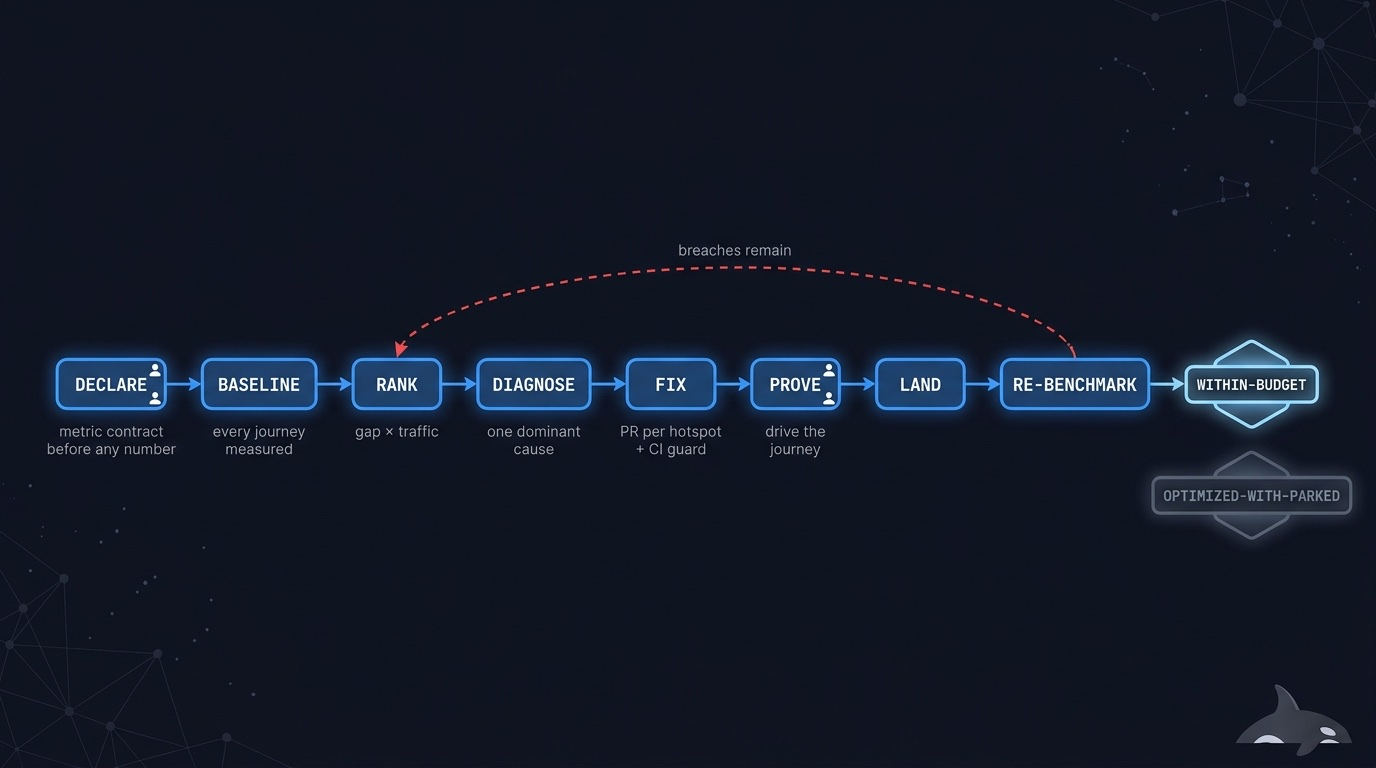
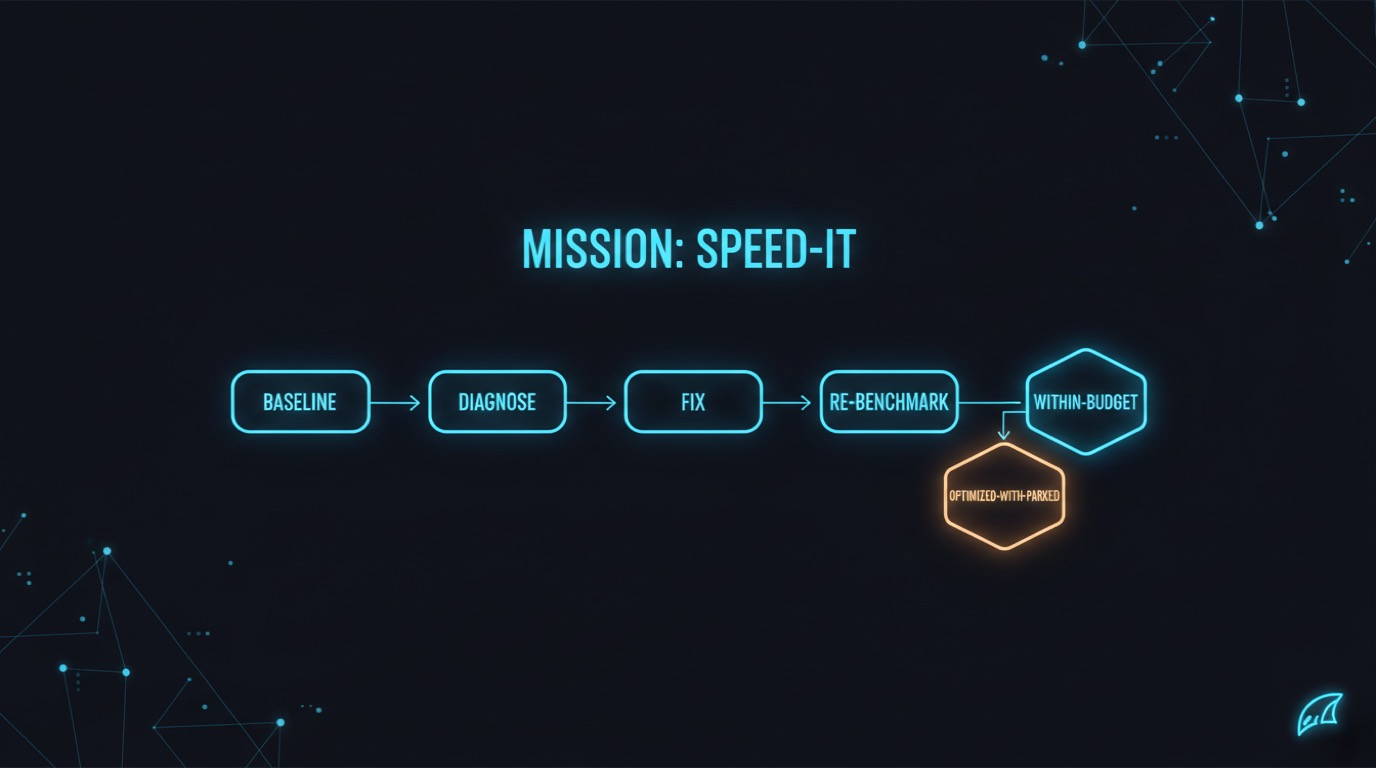
docs: regenerate the mission diagram set — 6 new mission images, refreshed speed-it, accurate mission map
- Add state-machine diagrams for access-it, attest-it, field-test-it,
  floor-it, pin-it, reshape-it and embed them in their guides
- Regenerate speed-it.jpg: the previous render carried garbled labels
- Regenerate mission-map.jpg: the stale map routed only 11 missions and
  its labels were AI-garbled; the new render mirrors the README mermaid
  routing tree exactly (all 17 missions, exact labels)
- Update both mission-map alt texts to name every route

diff --git a/docs/missions/floor-it.md b/docs/missions/floor-it.md
@@ -10,6 +10,10 @@
 
 **Skill:** [`skills/floor-it/SKILL.md`](../../skills/floor-it/SKILL.md) · **Layer:** mission (discoverable) · **Fix authority:** yes — `PROFILE=rw` wire workers
 
+<p align="center">
+  <img src="../../assets/diagrams/missions/floor-it.jpg" alt="State machine: DETECT measured current values, FREEZE a numbered CONSTRAINTS bar, WIRE one tool per dimension, PROVE-FIRES with an injected violation going RED, ENFORCE in CI, ending FLOORED or FLOORED-WITH-PARKED" width="820">
+</p>
+
 ---
 
 ## What it does
@@ -23,7 +27,9 @@ a violation on a throwaway branch — a deleted test file, a fixture lockfile a 
 installing, an injected sleep, a stripped alt text, a forbidden import — and the harness goes RED;
 revert, GREEN — a harness that stays GREEN is reverted and never lands. After CI enforcement lands, a canary PR per gate must turn CI red and is closed
 unmerged. Finally a **guard** — a checked-in validator plus a CI job — fails any diff that lowers a
-threshold, adds a suppression, or skips a test without a waiver label.
+threshold in `CONSTRAINTS.md` or touches a per-dimension tool-config surface listed in the frozen
+table (suppressions, skipped tests, exclusions) without a waiver (a recorded DECISIONS line per
+gate-classification).
 
 The unit of work is **one constraint dimension**. The defining property: the bar is written,
 numbered, and tool-enforced — prose standards are explicitly not the product.

diff --git a/docs/missions/field-test-it.md b/docs/missions/field-test-it.md
@@ -9,6 +9,10 @@
 
 **Skill:** [`skills/field-test-it/SKILL.md`](../../skills/field-test-it/SKILL.md) · **Layer:** mission (discoverable) · **Fix authority:** yes — `PROFILE=rw` fix workers
 
+<p align="center">
+  <img src="../../assets/diagrams/missions/field-test-it.jpg" alt="State machine: PAIR a device session, BASELINE, REPRODUCE with artifacts captured, FIX, RE-VERIFY on-device at the head SHA, ending FIELD-PROVEN or FIELD-PROVEN-WITH-PARKED" width="820">
+</p>
+
 ---
 
 ## What it does
@@ -84,7 +88,9 @@ on-device re-verify GREEN at `head_sha` + revert-to-red negative control, ledger
 capability tier — or a PARK naming the exact device and step it waits on. The before/after
 baselines are recorded; the verifier replays the recorded artifacts at the merged SHA (the
 archived repro re-driven expecting GREEN, plus a spot-check of the revert-RED receipt) — it never
-re-applies an already-landed fix. A green desktop run is never accepted as device evidence; a
+re-applies an already-landed fix — and, on a ≥10% sample per the mutation-unit floor, a fresh
+worker reverts the fix on a throwaway branch and re-drives the on-device flow expecting RED
+(landed BASE is never modified). A green desktop run is never accepted as device evidence; a
 one-time repro is marked flaky and re-driven, not closed.
 
 ## Composes

diff --git a/docs/missions/README.md b/docs/missions/README.md
@@ -6,7 +6,7 @@ built to prevent. The agent-facing contracts live in [`skills/`](../../skills/);
 for the human deciding what to run and what to expect.
 
 <p align="center">
-  <img src="../../assets/diagrams/mission-map.jpg" alt="Decision map: a goal routes to map-it then ship-it; known problems route to clean-sweep, oss-contribute, harden-it, speed-it, modernize-it, prove-it, or deflake-it; a question routes to review-it or root-cause" width="820">
+  <img src="../../assets/diagrams/mission-map.jpg" alt="Decision map: a goal to build routes to map-it then ship-it; known problems route to clean-sweep, oss-contribute, harden-it, speed-it, modernize-it, prove-it, deflake-it, floor-it, reshape-it, attest-it, access-it, or field-test-it; a question routes to review-it or root-cause; drifted tooling routes to pin-it" width="820">
 </p>
 
 | Guide | One line |

diff --git a/README.md b/README.md
@@ -148,7 +148,7 @@ where each link proceeds only on the previous mission's verified terminal state 
 ## Which mission do I want?
 
 <p align="center">
-  <img src="assets/diagrams/mission-map.jpg" alt="Decision map: a goal routes to map-it then ship-it; known problems route to clean-sweep, oss-contribute, harden-it, speed-it, modernize-it, prove-it, or deflake-it; a question routes to review-it or root-cause" width="900">
+  <img src="assets/diagrams/mission-map.jpg" alt="Decision map: a goal to build routes to map-it then ship-it; known problems route to clean-sweep, oss-contribute, harden-it, speed-it, modernize-it, prove-it, deflake-it, floor-it, reshape-it, attest-it, access-it, or field-test-it; a question routes to review-it or root-cause; drifted tooling routes to pin-it" width="900">
 </p>
 
 <details>

diff --git a/docs/missions/attest-it.md b/docs/missions/attest-it.md
@@ -10,6 +10,10 @@
 
 **Skill:** [`skills/attest-it/SKILL.md`](../../skills/attest-it/SKILL.md) · **Layer:** mission (discoverable) · **Fix authority:** evidence-gathering (`ro`); remediation that lands code routes to `ship-it` / `clean-sweep`
 
+<p align="center">
+  <img src="../../assets/diagrams/missions/attest-it.jpg" alt="State machine: INVENTORY the frozen obligations, COLLECT evidence per obligation, VERIFY by independent re-derivation, ATTEST, ending CONFORMANT or CONFORMANT-WITH-GAPS" width="820">
+</p>
+
 ---
 
 ## What it does

diff --git a/docs/missions/pin-it.md b/docs/missions/pin-it.md
@@ -10,6 +10,10 @@
 
 **Skill:** [`skills/pin-it/SKILL.md`](../../skills/pin-it/SKILL.md) · **Layer:** mission (discoverable) · **Fix authority:** yes — doctrine patches, `PROFILE=rw` workers
 
+<p align="center">
+  <img src="../../assets/diagrams/missions/pin-it.jpg" alt="State machine: FREEZE the claim inventory, RE-WITNESS with live receipts from the installed binary, CLASSIFY claims current, stale, or superseded, PATCH doctrine with receipt citations, ending PINNED or PINNED-WITH-PARKED" width="820">
+</p>
+
 ---
 
 ## What it does

diff --git a/docs/missions/access-it.md b/docs/missions/access-it.md
@@ -10,6 +10,10 @@
 
 **Skill:** [`skills/access-it/SKILL.md`](../../skills/access-it/SKILL.md) · **Layer:** mission (discoverable) · **Fix authority:** yes — `PROFILE=rw` fix workers
 
+<p align="center">
+  <img src="../../assets/diagrams/missions/access-it.jpg" alt="State machine: FREEZE the surface and WCAG target, DETECT with the axe-core oracle, FIX via rw workers, RE-VERIFY by reverting to bring the violation back, ending CONFORMANT or CONFORMANT-WITH-MANUAL-PARKED" width="820">
+</p>
+
 ---
 
 ## What it does

diff --git a/docs/missions/reshape-it.md b/docs/missions/reshape-it.md
@@ -9,6 +9,10 @@
 
 **Skill:** [`skills/reshape-it/SKILL.md`](../../skills/reshape-it/SKILL.md) · **Layer:** mission (discoverable) · **Fix authority:** yes — `PROFILE=rw` deepening workers
 
+<p align="center">
+  <img src="../../assets/diagrams/missions/reshape-it.jpg" alt="State machine: SCAN a churn-weighted inventory, CONFIRM the human-bounded surface, CHARACTERIZE with the net pinned first, DEEPEN one seam per unit, REVIEW, ending RESHAPED or RESHAPED-WITH-PARKED" width="820">
+</p>
+
 ---
 
 ## What it does
